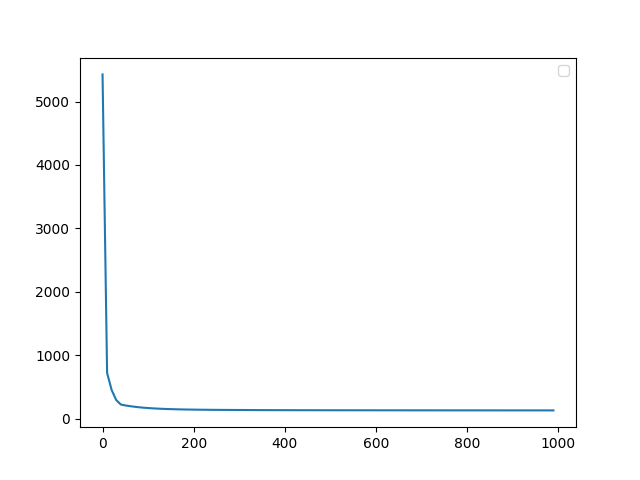
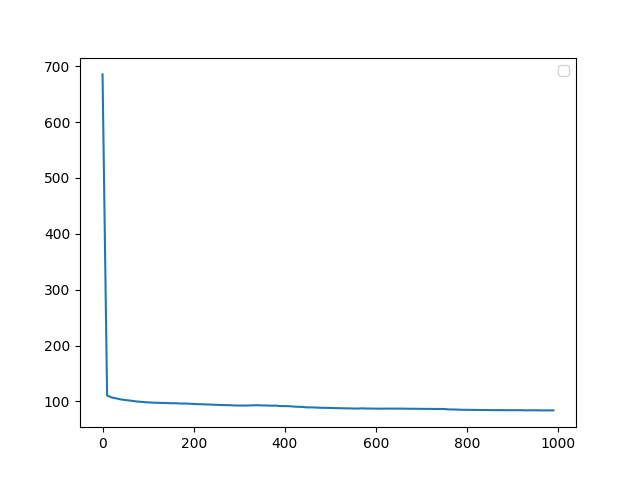
minor fixes

diff --git a/src/main.py b/src/main.py
@@ -14,72 +14,57 @@ import tensorflow as tf
 
 
 def main_function():
+    
+
     leagues = ['PL', 'SerieA', 'Bundesliga', 'Ligue1', 'LaLiga']
     test_obj = StoreCSV()
+    #This is code 
     #for league in leagues:
     #    test_obj.createCSV(league)
     #os.rename(f'{league}.csv', f'../csv/{league}.csv')
     transform_to_float = tensor_to_float32
     soccer_dataset = SoccerDataset('../csv/PL.csv', root_dir='/', transform=transform_to_float)
-    sample = soccer_dataset[0]
-    #Test
-    print(sample['stats'].shape)
-    print(sample['scores'].shape)
 
     dataloader = DataLoader(soccer_dataset, batch_size=4)
-    test_perceptron = MultiLayerPerceptron(108, 2)
-    #sample_input = test_perceptron(next(iter(dataloader))['stats'])
-    loss_fn = torch.nn.MSELoss()
-    #dummy_losses = torch.ones((32,4))
-    #print(loss_fn(sample_input,dummy_losses))
-    optimizer = torch.optim.Adam(test_perceptron.parameters(), lr=0.00001)
+    #3 possible output values:
+    test_MLP = MultiLayerPerceptron(108, 3)
+    #For multiclass classification
+    loss_fn = torch.nn.CrossEntropyLoss()
+    optimizer = torch.optim.Adam(test_MLP.parameters(), lr=0.0001, weight_decay=0.07)
     training_obj = TrainingTesting()
-    training_obj.training(dataloader, 1000, loss_fn, optimizer, test_perceptron)
+    training_obj.training(dataloader, 1000, loss_fn, optimizer, test_MLP)
 
-    testing_dataset = SoccerDataset('../csv/PL.csv', root_dir='/', transform=transform_to_float)
-    #dataloader = DataLoader(testing_dataset, batch_size=32)
-    #training_obj.testing(dataloader, loss_fn, test_perceptron)
-    leagues[0] = 'PL_testing'
-    leagues.append('PL')
-    for league in leagues:
-        num_correct = 0
-        num_non_draws = 0
-        testing_dataset = SoccerDataset(f'../csv/{league}.csv', root_dir='/', transform=transform_to_float)
-        for index in range(len(testing_dataset)):
-            out = test_perceptron(torch.from_numpy(testing_dataset[index]['stats']))
-            actual = torch.from_numpy(testing_dataset[index]['scores'])
-            #Don't care about draws for now
-            if (actual[0].item() == actual[1].item()):
-                continue
-            num_non_draws += 1
-            #Model correctly guessed home win
-            if (actual[0].item() > actual[1].item() and out[0].item() > out[1].item()):
-                num_correct += 1
-            if (actual[0].item() < actual[1].item() and out[0].item() < out[1].item()):
-                num_correct += 1
-        #print(float(num_correct/num_non_draws))
-    for league in leagues:
-        num_correct = 0
-        num_draws = 0
-        testing_dataset = SoccerDataset(f'../csv/{league}.csv', root_dir='/', transform=transform_to_float)
-        for index in range(len(testing_dataset)):
-            out = test_perceptron(torch.from_numpy(testing_dataset[index]['stats']))
-            actual = torch.from_numpy(testing_dataset[index]['scores'])
-            #Don't care about wins on either side only draws
-            if not actual[0].item() == actual[1].item():
-                continue
-            num_draws += 1
-            if round(out[0].item()) == round(out[1].item()):
-                num_correct += 1
+    PL_results =  next(iter(DataLoader(soccer_dataset, batch_size=380)))['results']
+    num_home_wins = 0
+    num_draws = 0
+    num_away_wins = 0
+    for elem in PL_results:
+        match elem:
+            case 0:
+                num_home_wins += 1
+            case 1:
+                num_draws += 1
+            case 2:
+                num_away_wins += 1
+    print(num_home_wins)
+    print(num_draws)
+    print(num_away_wins)
 
-        print(float(num_correct/num_draws))
-        print(float(num_draws/len(testing_dataset)))
-        
-        #print("predicted:")
-        #print(out)
-        #print("actual:")
-        #print(actual)
-    
+    #Now test on the testing data
+    other_league_dataset = SoccerDataset('../csv/PL_testing.csv', root_dir='/', transform=transform_to_float)
+    dataloader = next(iter(DataLoader(other_league_dataset, batch_size=380)))
+    outputs = torch.argmax(test_MLP(dataloader['stats']), dim=1)
+    actual_results = dataloader['results'].reshape(380).long()
+    correct = 0
+    incorrect = 0
+    for index, elem in enumerate(outputs):
+        if elem == actual_results[index]:
+            correct += 1
+        else:
+            incorrect += 1
+    print(correct)
+    print(incorrect)
+    print(float(correct/(correct+incorrect)))
     
 
 

diff --git a/src/model/ml_dataset.py b/src/model/ml_dataset.py
@@ -9,7 +9,23 @@ class SoccerDataset(Dataset):
 
     def __init__(self, csv_file, root_dir, transform=None):
         
-        self.soccer_data_frame = pd.read_csv(csv_file)
+        temp_frame = pd.read_csv(csv_file)
+        results = []
+        for index, row in temp_frame.iterrows():
+            #Home win
+            if row['Home Outcome Score'] > row['Away Outcome Score']:
+                results.append(0)
+            #Draw
+            elif row['Home Outcome Score'] == row['Away Outcome Score']:
+                results.append(1)
+            #Away win
+            else:
+                results.append(2)
+        temp_frame = temp_frame.drop(columns=['Home Outcome Score', 'Away Outcome Score'])
+        temp_frame.insert(len(temp_frame.columns), "Result", results)
+
+        self.soccer_data_frame = temp_frame
+        
         #This for now isn't needed because inputs and their labels are in the same csv files
         self.root_dir = root_dir
         self.transform = transform
@@ -22,15 +38,15 @@ class SoccerDataset(Dataset):
             idx = idx.tolist()
 
         rows = self.soccer_data_frame.iloc[idx, :]
-        split_idx = len(rows) - 2
+        split_idx = len(rows) - 1
         stats = rows[:split_idx]
-        scores = rows[split_idx:]
+        results = rows[split_idx:]
         stats = np.array(stats)
-        scores = np.array(scores)
-
-        sample = {'stats': stats, 'scores': scores}
+        results = np.array(results)
+        
+        sample = {'stats': stats, 'results': np.asarray(results)}
 
         if self.transform:
-            sample = {'stats': self.transform(sample['stats']), 'scores': self.transform(sample['scores'])}
+            sample = {'stats': self.transform(sample['stats']), 'results': self.transform(sample['results'])}
 
         return sample

diff --git a/src/model/ml_training_testing.py b/src/model/ml_training_testing.py
@@ -22,22 +22,23 @@ class TrainingTesting:
             cur_epoch_loss = 0.0
             for index, cur_batch in enumerate(train_data_loader):
                 input_stats = cur_batch['stats']
-                output_scores = cur_batch['scores']
+                actual_results = cur_batch['results'].reshape(train_data_loader.batch_size).long()
 
                 optimizer.zero_grad()
 
                 outputs = model(input_stats)
-                loss = loss_function(outputs, output_scores)
-                #print(loss.item())
+                #Need to get outputs into a column tensor, can't have a row. len(outputs) is just the batch size
+                loss = loss_function(outputs, actual_results)
                 cur_epoch_loss += loss.item()
                 loss.backward()
 
                 optimizer.step()
             if cur_epoch % 10 == 0:
-                #print(cur_epoch_loss)
                 epochs.append(cur_epoch)
                 losses.append(cur_epoch_loss)
         _plot_accuracy_history(epochs, losses)
+        print(losses[0])
+        print(losses[-1])
 
     def testing(self, testing_dataloader, loss_function, model):
         for index, cur_batch in enumerate(testing_dataloader):
